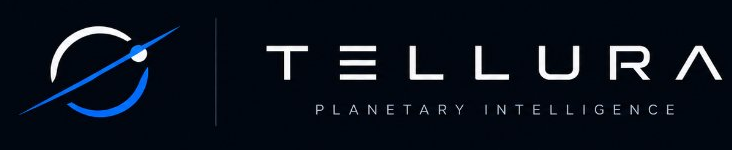
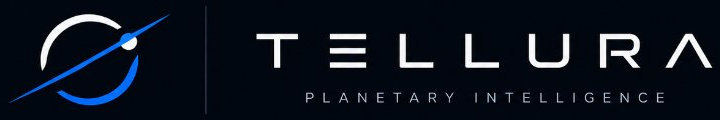
feat(ui): use Primary Horizontal Lockup image directly in header and footer
- Replaced custom HTML font rendering with authentic Primary Horizontal Lockup
- Added transparent and dark-mode compatible primary lockup assets
- Enabled clean monochrome light-mode transition with adaptive contrast filter

diff --git a/frontend-react/src/components/Footer.jsx b/frontend-react/src/components/Footer.jsx
@@ -11,22 +11,15 @@ export default function Footer() {
       <footer className="border-t border-[var(--color-border-subtle)] bg-[var(--color-bg-deep)] py-12 px-4 sm:px-6 text-[var(--color-text-secondary)] text-xs transition-colors">
       <div className="max-w-7xl mx-auto flex flex-col md:flex-row items-start md:items-center justify-between gap-8">
         {/* Left: Brand & Tagline */}
-        <div className="space-y-2 max-w-sm">
-          <div className="flex items-center gap-2.5">
+        <div className="space-y-3 max-w-sm">
+          <Link to="/" className="inline-block" aria-label="Tellura Home">
             <img
-              src="/tellura_icon.png"
-              alt="Tellura Planetary Intelligence icon"
-              className="w-5 h-5 rounded object-contain shrink-0"
-              width="20"
-              height="20"
+              src="/tellura_primary_lockup_transparent.png"
+              alt="Tellura — Planetary Intelligence"
+              className="h-7 sm:h-8 w-auto object-contain brightness-0 dark:brightness-100 transition-all"
+              height="32"
             />
-            <span className="font-['Space_Grotesk'] font-bold text-sm text-[var(--color-text-main)]">
-              Tellura
-            </span>
-            <span className="text-[10px] font-mono text-[var(--color-text-muted)] tracking-wider">
-              Planetary Intelligence
-            </span>
-          </div>
+          </Link>
           <p className="text-[var(--color-text-muted)] text-[11px] leading-relaxed">
             Evidence-first scientific workbench discovering statistically defensible trends in NASA MERRA-2 and POWER Earth-system data.
           </p>

diff --git a/frontend-react/src/components/Header.jsx b/frontend-react/src/components/Header.jsx
@@ -92,24 +92,15 @@ export default function Header() {
         <div className="flex items-center gap-6 sm:gap-8">
           <Link
             to="/"
-            className="flex items-center gap-2.5 group focus-visible:outline-none focus-visible:ring-1 focus-visible:ring-[#0066ff] rounded py-1 px-1"
+            className="flex items-center group focus-visible:outline-none focus-visible:ring-1 focus-visible:ring-[#0066ff] rounded py-1 px-1"
             aria-label="Tellura Home"
           >
             <img
-              src="/tellura_icon.png"
-              alt="Tellura Planetary Intelligence brand mark"
-              className="w-7 h-7 rounded object-contain shadow-xs shrink-0"
-              width="28"
-              height="28"
+              src="/tellura_primary_lockup_transparent.png"
+              alt="Tellura — Planetary Intelligence"
+              className="h-8 sm:h-9 w-auto object-contain shrink-0 brightness-0 dark:brightness-100 transition-all"
+              height="36"
             />
-            <div className="flex flex-col">
-              <span className="font-['Space_Grotesk'] font-bold text-sm tracking-tight text-[var(--color-text-main)] group-hover:text-[var(--color-accent-blue)] transition-colors">
-                Tellura
-              </span>
-              <span className="text-[9px] font-mono tracking-wider text-[var(--color-text-muted)] hidden sm:inline-block">
-                Planetary Intelligence
-              </span>
-            </div>
           </Link>
 
           {/* Desktop Navigation Links */}
